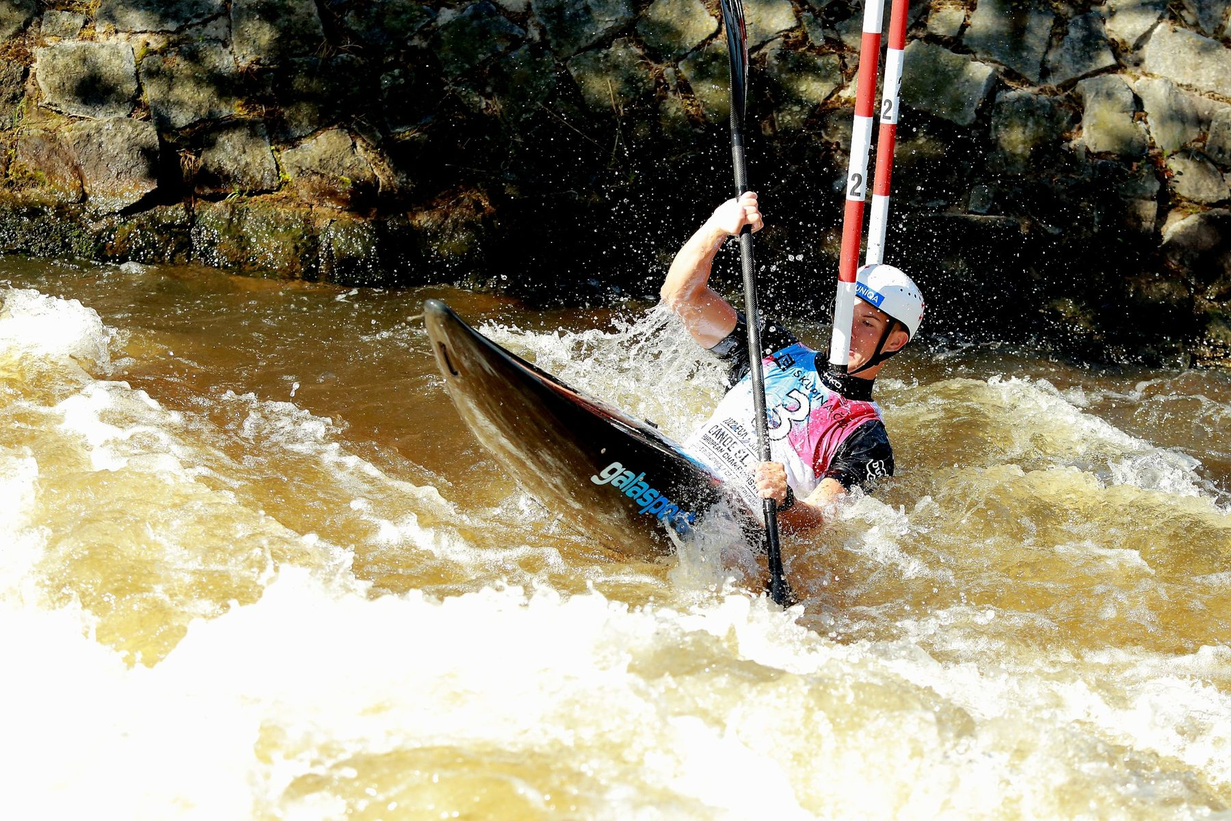
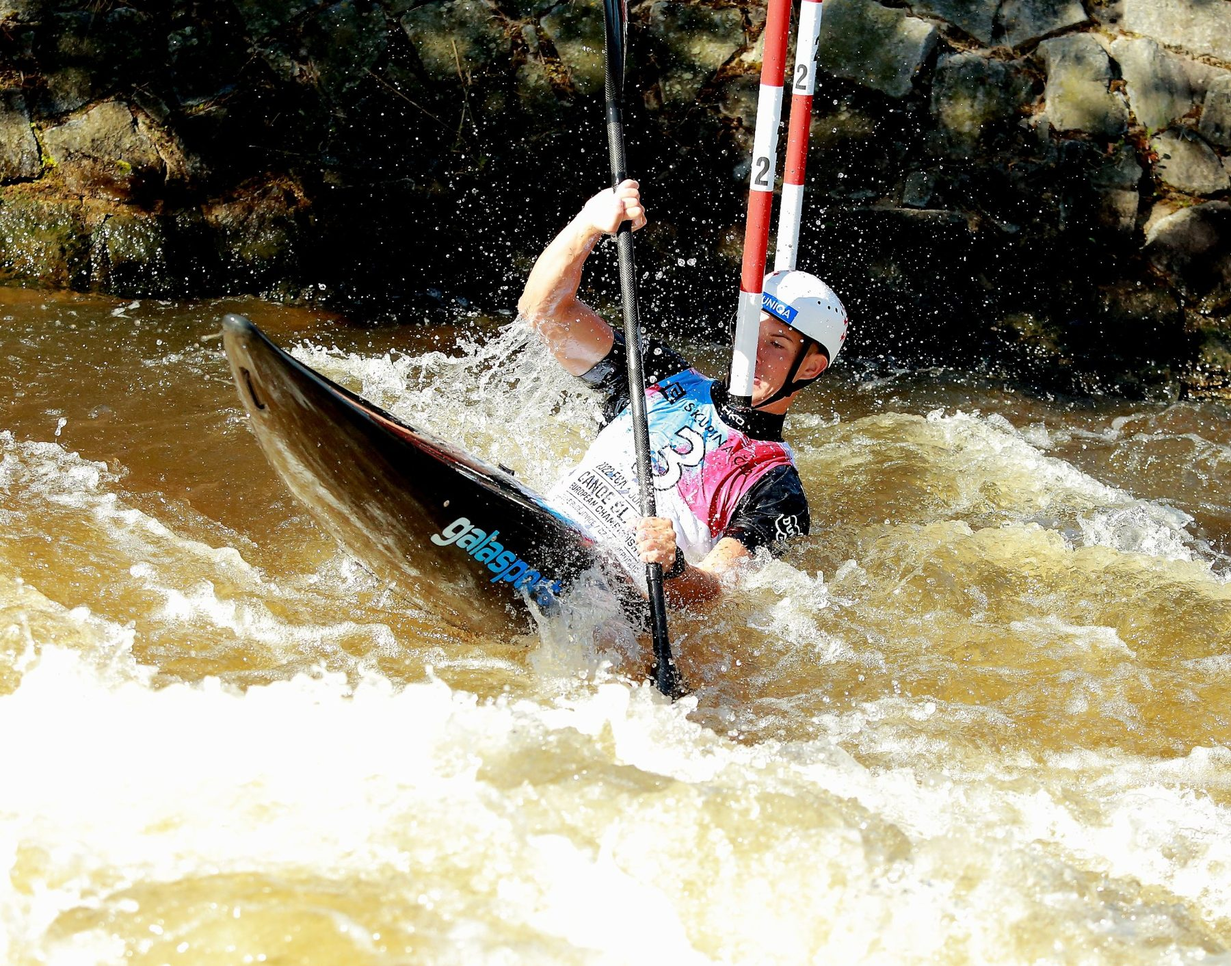
Homepage: hero = K1 v brance 2 (ME JUN&U23 2022), ořez zleva – jezdec mezi textem a fragmentem loga
Claude-Session: https://claude.ai/code/session_01A1SezTxvxDren6boYhCZF9

diff --git a/build.py b/build.py
@@ -331,7 +331,7 @@ directory = [
 for d in directory:
     if not d['external']: d['url'] = d['url'].replace('../', '')
 render('home.html', OUT / 'index.html', '', title=None, section='home', latest=posts[:3],
-       hero=dict(path='photos/hero/11.jpg'),
+       hero=dict(path='photos/hero/13.jpg'),
        feat=dict(deti=first_photo('akce', '2025-05-cp-zaci-veltrusy', 'photos/akce/2024-06-odm/01.jpg'),
                  areal=(photos_in('areal')[1]['path'] if len(photos_in('areal')) > 1 else first_photo('areal')),
                  zavody=first_photo('akce', '2026-09-nkz-cb', first_photo('hero'))),
